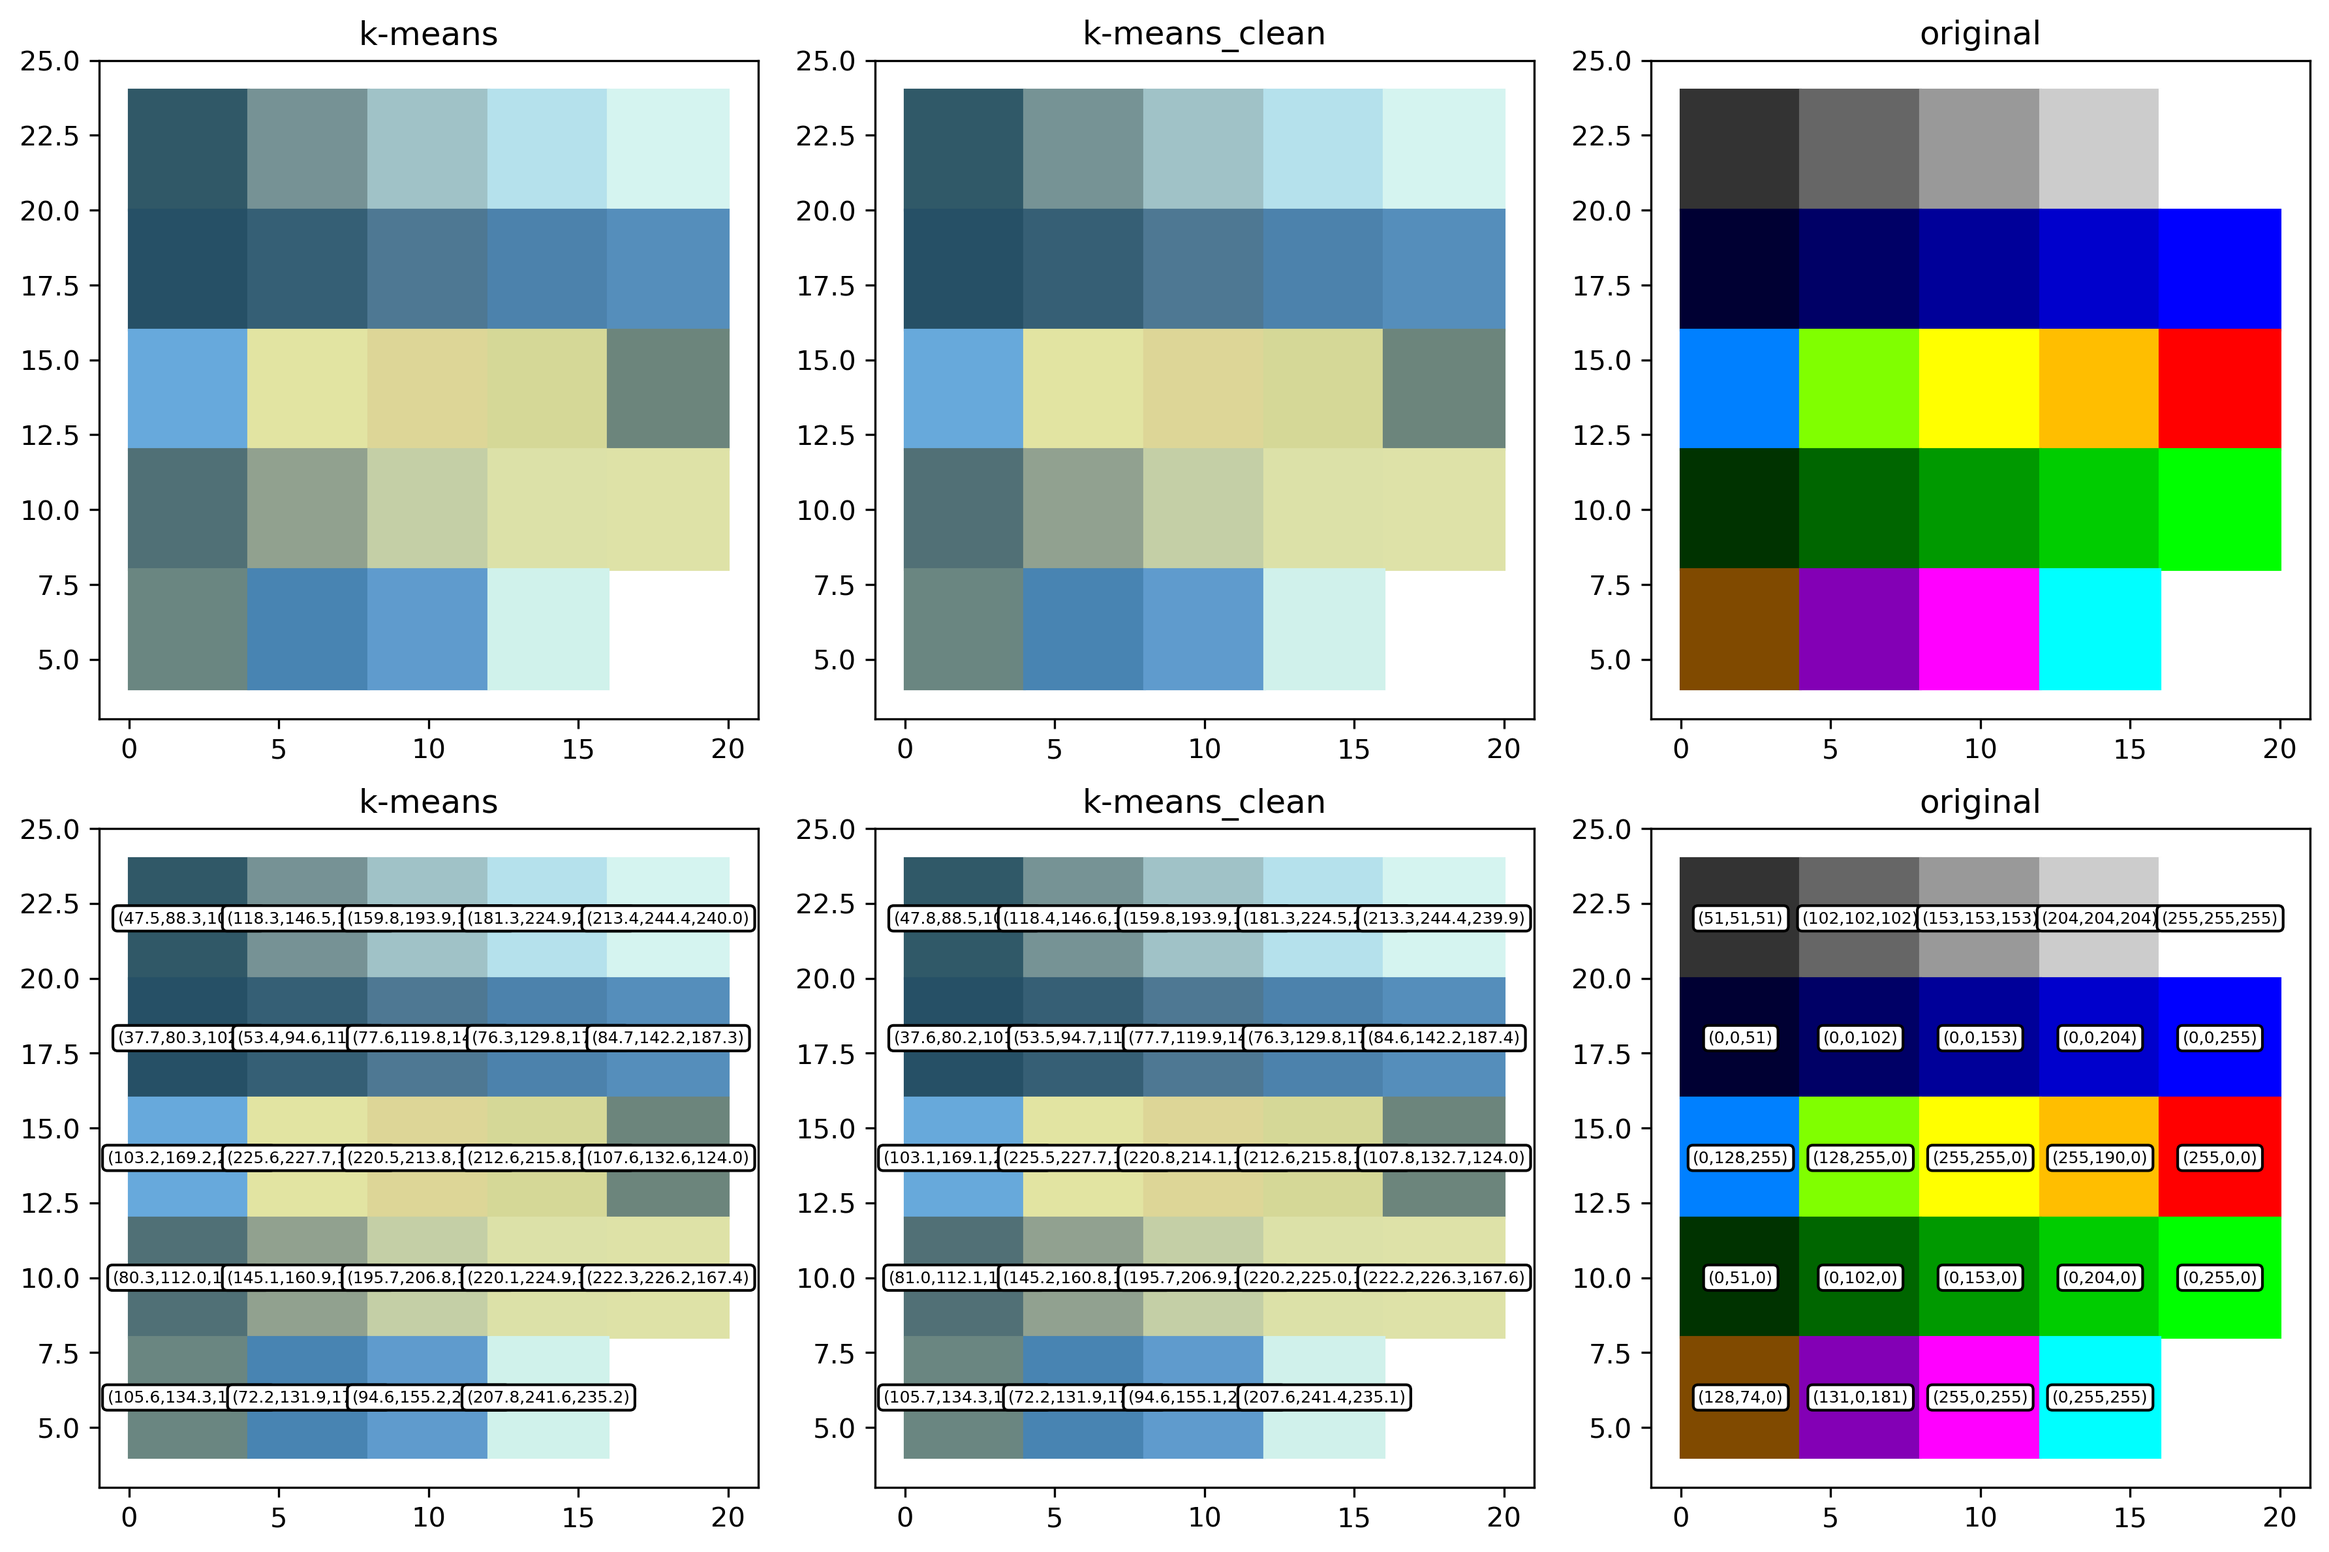
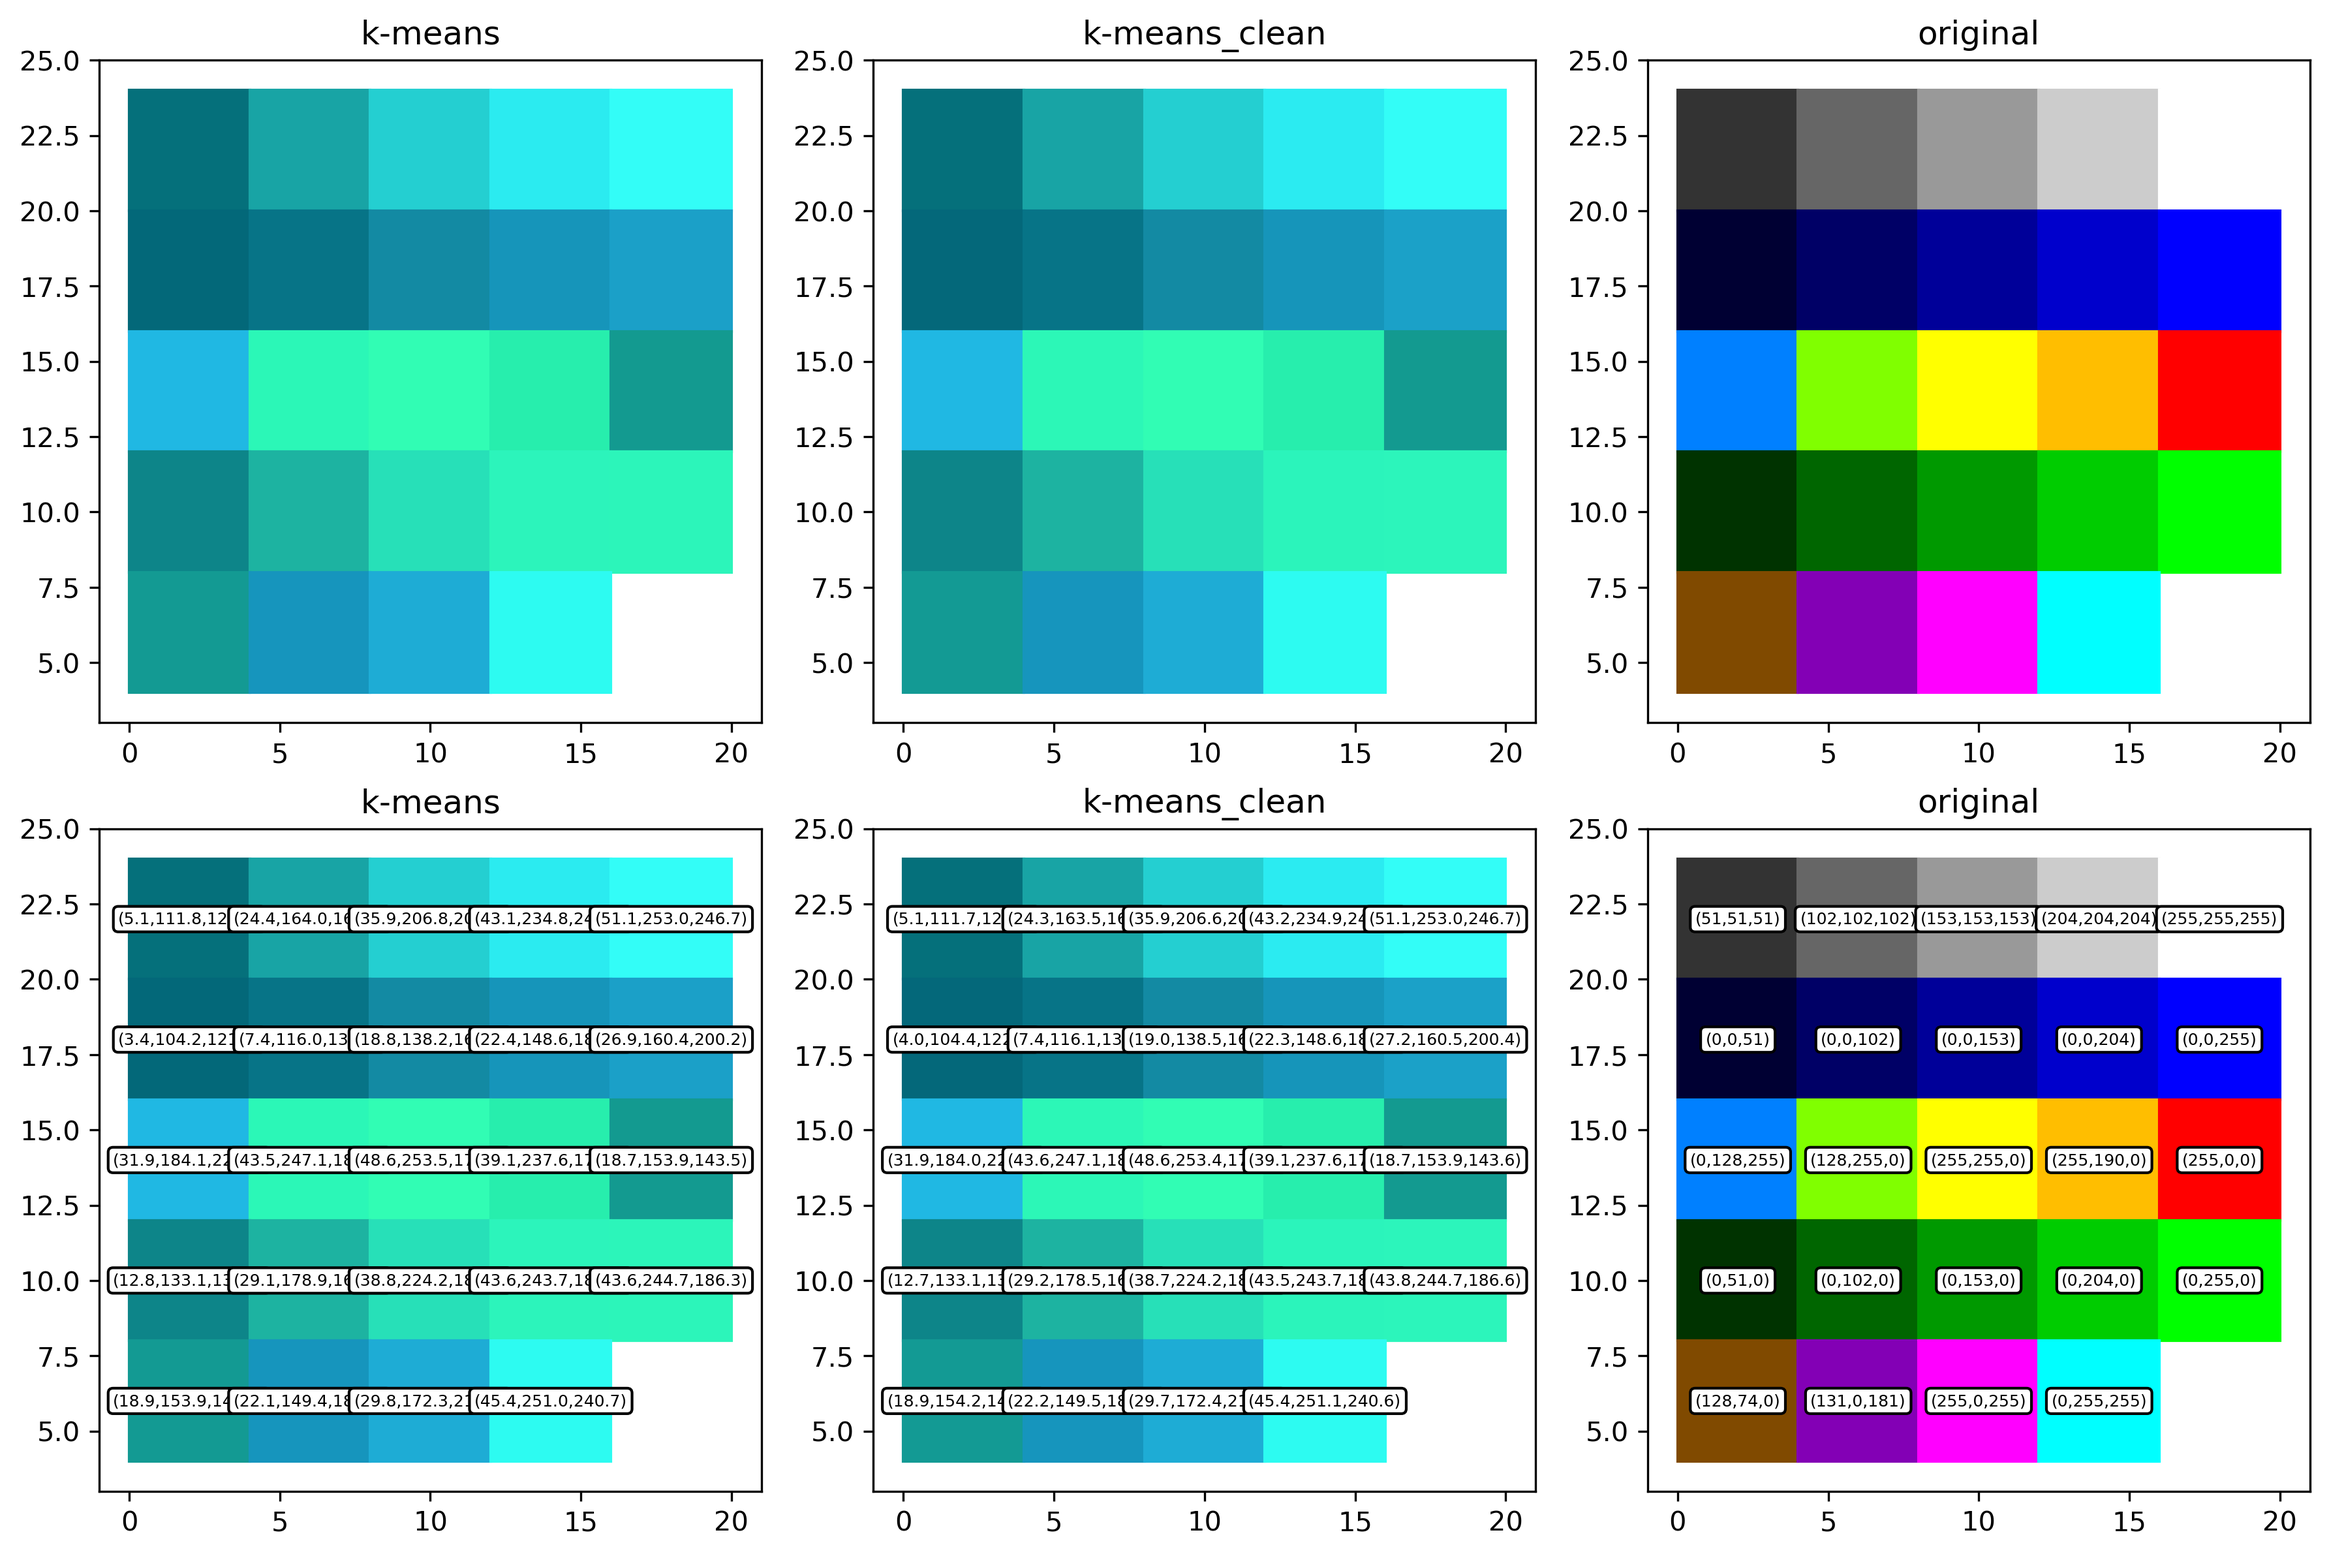
auto update capture analyze

diff --git a/main.py b/main.py
@@ -192,17 +192,35 @@ class StartPage(QWidget, QtCore.QObject):
             self.imgShow2_path = ''
 
     def open_Analyze(self):
-
         try:
             self.analyze_page = Analyze(self)
             if self.imgShow2_path == '':
                 self.image_uploaded.emit(self.img_path)
             else:
                 self.image_uploaded.emit(self.imgShow2_path)
+            self.analyze_page.returnPoints.connect(self.get_return_points)  # 連接信號和槽
             self.analyze_page.show()
+
         except Exception as e:
             print("Error: 請先上傳圖片或是有其他路徑問題，錯誤訊息如下：")
             print(e)
+
+    def update_image(self):
+        # 在圖片內容更改後，獲取新的圖片
+        new_image = cv2.imread('res/colorblock.png')
+        new_image1 = cv2.imread('res/k-means.png')
+        # 將 OpenCV 的圖片轉換為 QImage
+        height, width, _ = new_image.shape
+        height1, width1, _ = new_image1.shape
+        bytes_per_line = 3 * width
+        bytes_per_line1 = 3 * width1
+        qimage = QImage(new_image.data, width, height, bytes_per_line, QImage.Format_BGR888)
+        qimage1 = QImage(new_image1.data, width1, height1, bytes_per_line1, QImage.Format_BGR888)
+        # 將 QImage 轉換為 QPixmap
+        new_pixmap = QPixmap.fromImage(qimage)
+        new_pixmap1 = QPixmap.fromImage(qimage1)
+        self.tab_image4.setPixmap(new_pixmap.scaled(864, 576))
+        self.tab_image5.setPixmap(new_pixmap1.scaled(1094, 576))
 
     def image_show(self):
 
@@ -277,6 +295,13 @@ class StartPage(QWidget, QtCore.QObject):
 
         # 將QImage格式的影像顯示在image_e標籤上
         self.image_e.setPixmap(QPixmap.fromImage(qImg))
+
+    # 接收回傳的點並更新影像
+    @QtCore.pyqtSlot(list)
+    def get_return_points(self, points):
+        print(points)
+        self.return_points = points
+        self.update_image()
 
 
 class Analyze(QMainWindow, Ui_MainWindow, QtCore.QObject):
@@ -363,8 +388,8 @@ class Analyze(QMainWindow, Ui_MainWindow, QtCore.QObject):
         output_file = os.path.join(parent_path, "points.txt")
         with open(output_file, 'w') as f:
             f.write(', '.join(str(p) for p in pts))
-        self.close()
         self.returnPoints.emit(pts)
+        self.close()
 
     def on_exit_clicked(self):
         QApplication.exit()
